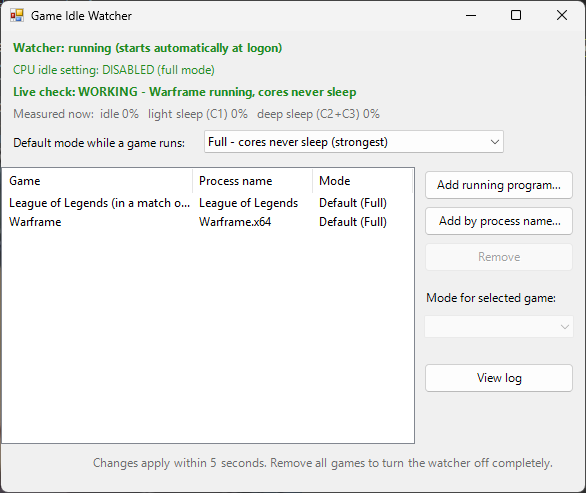
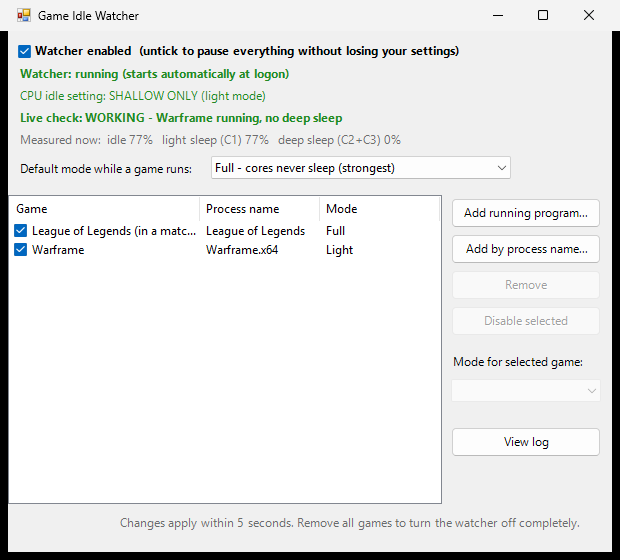
Add per-game enable/disable and a global pause switch
- Game checkboxes and 'Disable selected' toggle a game (games.txt: 'Name | off').
- 'Watcher enabled' pauses everything (settings.txt: enabled=false) without losing settings.
- Live check and log report paused/disabled states.
- games.txt is now per-user, created from games.default.txt on first run.
- New README screenshot.

diff --git a/README.md b/README.md
@@ -18,12 +18,14 @@ If you move the folder, just open `GameIdleWatcher.bat` again and it repairs its
 
 ## Settings window
 
+- **Watcher enabled**: untick to pause everything (for example to compare with and without the fix). Your games and modes are kept; tick it again to resume.
 - **Status**: whether the watcher is running and which CPU idle setting is applied right now.
 - **Live check**: measures what the cores are actually doing (idle, light sleep C1, deep sleep C2+C3) and says whether it's WORKING, NOT WORKING, STUCK or inactive.
 - **Default mode**: the mode used for games that don't have their own (see below).
 - **Add running program...**: start the game, then pick it from the list of open programs.
 - **Add by process name...**: type the `.exe` name (Task Manager → Details).
 - **Remove** a game.
+- **Checkbox / Disable selected**: turn a single game off without removing it. Disabled games are greyed out and ignored.
 - **Mode for selected game**: Default, Full or Light per game.
 - **View log**: opens `log.txt`, which records when the watcher started, when games opened/closed, mode changes, and when the fix turned on/off.
 
@@ -40,14 +42,15 @@ The default mode starts as Full and is saved in `settings.txt`. Each game can ov
 
 ## Games list
 
-The list lives in `games.txt`, one game per line. You can edit it by hand too:
+The list lives in `games.txt`, one game per line. It's created from `games.default.txt` the first time you run the app, and it's yours: updating the app doesn't overwrite it. You can edit it by hand too:
 
 ```
 League of Legends  # League of Legends (in a match only)
 Warframe.x64 | light  # Warframe
+Cyberpunk2077 | off  # Cyberpunk 2077
 ```
 
-The first part is the process name (the `.exe` name without `.exe`), the optional `| full` or `| light` sets that game's mode, and the text after `#` is the display name. Included by default:
+The first part is the process name (the `.exe` name without `.exe`). Optional flags: `| full` or `| light` sets that game's mode, `| off` disables it. The text after `#` is the display name. Included by default:
 
 | Game | Process | When it kicks in |
 |---|---|---|
@@ -56,7 +59,7 @@ The first part is the process name (the `.exe` name without `.exe`), the optiona
 
 ## Uninstall
 
-Remove all games from the list. The watcher is removed (no logon task, nothing running) and CPU idle states go back to normal. Then you can delete the folder.
+To turn it off temporarily, untick **Watcher enabled**. To remove it completely, remove all games from the list. The watcher is removed (no logon task, nothing running) and CPU idle states go back to normal. Then you can delete the folder.
 
 ## How it works
 
